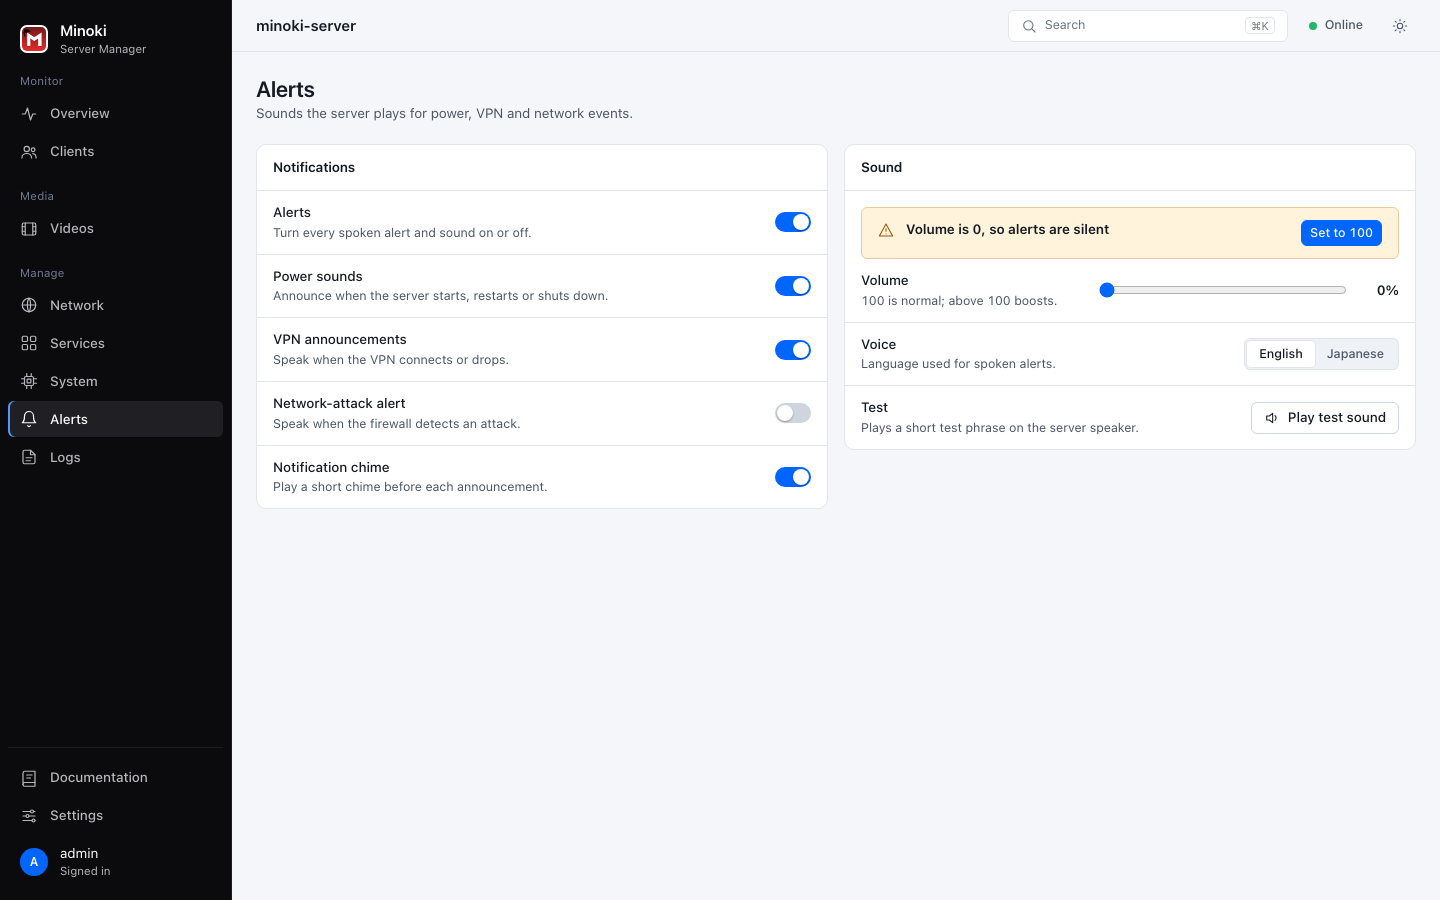
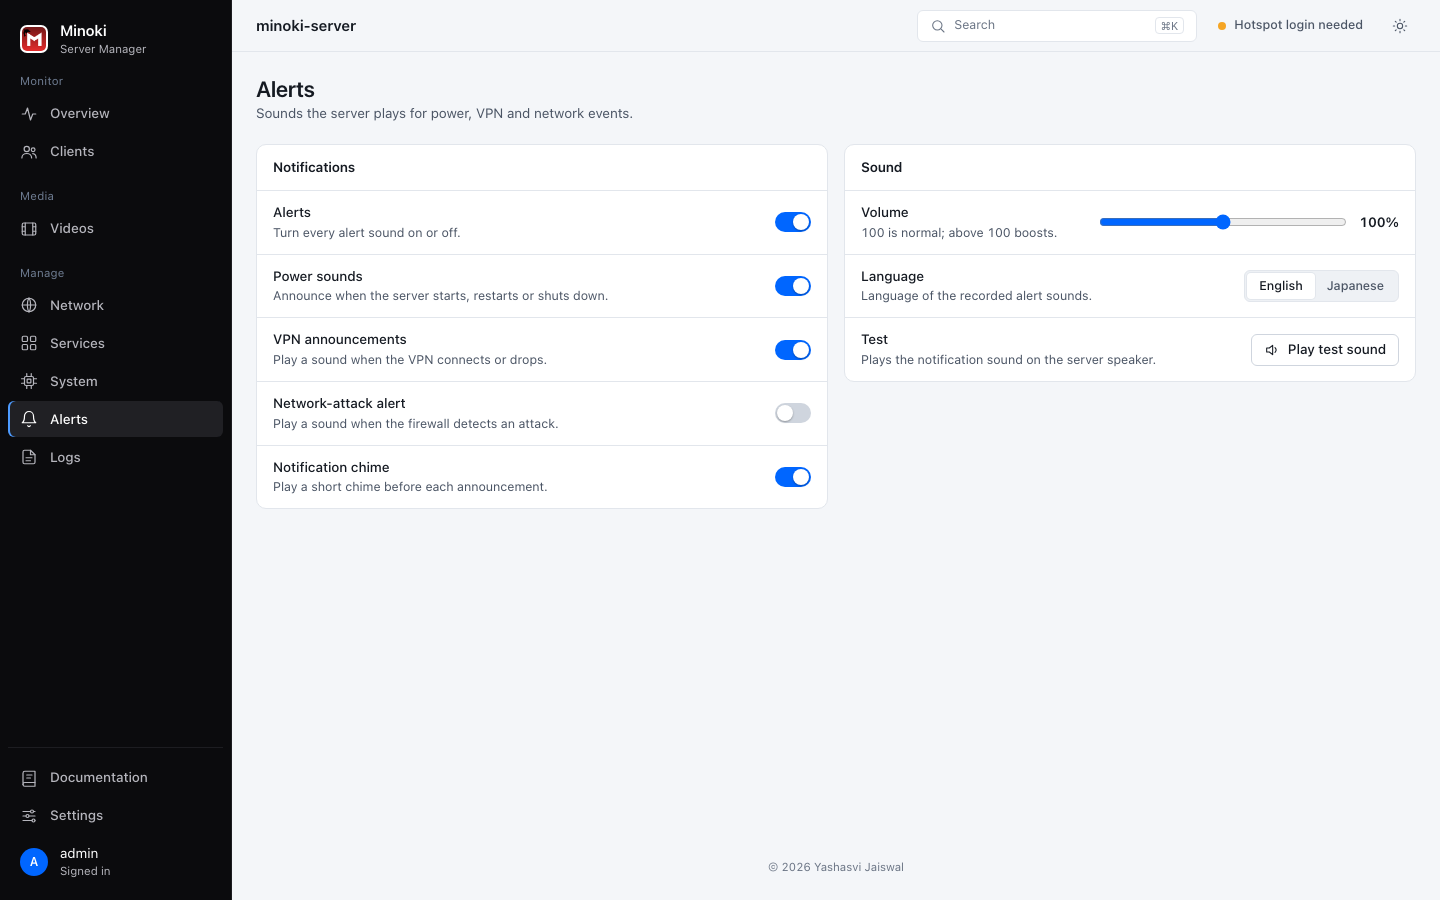
Add hotspot band switch, adapter switches, audio track selection and recorded alert sounds; refresh numbers and screenshots

diff --git a/README.md b/README.md
@@ -22,19 +22,20 @@ It shares an internet connection with devices on its own hotspot and manages acc
 - It builds the firewall rules and loads them in one step. You can block a device, limit its speed, or switch all sharing off with one master switch.
 - Guests see a sign-in page. Phones are redirected so their own login sheet opens. The admin can keep several four-digit codes at once and see how often each one is used.
 - WireGuard VPN with a watchdog, and switching between a Wi-Fi uplink and a wired one. It also notices when the uplink is behind a login page of its own, which a simple ping would call "online".
-- Live monitoring: traffic per interface, busiest processes, system meters, service health and an activity feed. Alerts can be spoken aloud.
+- Live monitoring: traffic per interface, busiest processes, system meters, service health and an activity feed. Alerts play recorded sounds, in English or Japanese.
+- The hotspot can run on the 2.4 or 5 GHz band, and each network adapter can be switched on or off from the console.
 - A provisioner that installs about fifteen supporting services, adopts ones that already exist instead of overwriting them, and can take over from the old setup with a rollback.
-- A video library with posters, series, resume, subtitles, and one-time repackaging of MKV files so browsers can play them.
+- A video library with posters, series, resume, subtitles, a choice of audio tracks, and one-time repackaging of MKV files so browsers can play them.
 - Two consoles behind one login: the full admin console, and a restricted one for users.
 - Installable phone apps. The console and the video library are separate progressive web apps (PWA).
 
 ## Tech Stack & Development Processes
 
-- Backend and API design in Go: one daemon, a role-checked HTTP API with 81 documented routes, SQLite storage, and migrations that run on their own at startup.
+- Backend and API design in Go: one daemon, a role-checked HTTP API with 86 documented routes, SQLite storage, and migrations that run on their own at startup.
 - Linux and networking: iptables, ipset and tc, a captive portal, WireGuard, hostapd, dnsmasq and systemd.
 - Security: hashed passwords and tokens, attempt limits, deny-by-default roles, and password re-confirmation for sensitive changes.
 - Front end: a plain JavaScript console with light and dark themes, separate desktop and phone layouts, and installable apps.
-- Testing: 266 passing tests, including golden-file tests for the generated firewall rules.
+- Testing: 273 passing tests, including golden-file tests for the generated firewall rules.
 - Operations: dry runs, backups, a staged cutover with automatic rollback, service supervision and health reports.
 
 ## Safety Measures
@@ -52,13 +53,13 @@ The daemon owns its own firewall chains and loads them in a single `iptables-res
 | | |
 |---|---|
 | ![Clients](assets/screenshots/clients.png) | ![Network](assets/screenshots/network.png) |
-| Clients, with block and speed limit | Network: uplink, sharing, speed test |
+| Clients, with block and speed limit | Network: uplink, sharing, adapters |
 | ![Hotspot access codes](assets/screenshots/hotspot-access-codes.png) | ![Settings and user management](assets/screenshots/settings-user-management.png) |
-| Guest access codes | User management |
+| Hotspot band and channel, guest access codes | User management |
 | ![Services](assets/screenshots/services.png) | ![System](assets/screenshots/system.png) |
 | Services and their health | System meters and power |
 | ![Alerts](assets/screenshots/alerts.png) | ![Logs](assets/screenshots/logs.png) |
-| Alerts and sound | Blocked connections |
+| Alerts, in English or Japanese | Blocked connections |
 
 The video library:
 
@@ -68,6 +69,8 @@ The video library:
 | Home, with continue watching | A series and its episodes |
 | ![Player](assets/screenshots/videos-player.png) | ![Episode management](assets/screenshots/videos-manage.png) |
 | Player, with subtitle timing | Edit, hide and regroup |
+| ![Audio tracks](assets/screenshots/videos-audio.png) | |
+| Choosing between audio tracks | |
 
 Dark theme, phone layouts and the guest portal:
 
@@ -135,6 +138,10 @@ Auto-launch captive portal on phones. The server sends an unauthorised guest's p
 
 On a Core 2 Duo, transcoding video isn't realistic. So the library repackages MKV to MP4 once, in the background, at the lowest priority, and keeps the result. The binaries are static with no libc dependency, so the old distribution's libraries don't get in the way.
 
+The hotspot band can be changed from the console. The change rewrites only the band and channel in the hotspot's configuration and restarts it. If the radio doesn't come up on the new band, the previous settings are restored automatically.
+
+An MKV with several audio tracks (for example Japanese and English) keeps the first one in the repackaged video. The others are extracted on demand into small audio files, and the player plays the chosen one beside the muted video, kept in step with it. Browsers can't switch audio tracks inside an MP4 reliably, and a second full copy of the video per language would take gigabytes.
+
 Age-gated categories are refused by every route that could expose them (titles, artwork, subtitles, files and direct links) until a session confirms its age. The protection lives on the server, not in the interface.
 
 ### Bugs faced during development
@@ -142,16 +149,17 @@ Age-gated categories are refused by every route that could expose them (titles, 
 - A progress bar stuck at 0%. The server's older ffmpeg reports elapsed time under a different key than newer versions.
 - A console that wouldn't start after an update, because the browser paired a new script with a cached old one. The server now asks browsers to revalidate on every load.
 - An nginx directive that isn't allowed inside `if`. I caught it by testing the configuration before reloading it.
+- 5 GHz was refused by the hotspot adapter on every channel. The cause was a signature check: the updated wireless regulatory database was signed with a newer key than the old `crda` tool trusts, so the country settings never applied. A driver option fixed it.
 - A progress bar stuck at 99%. It turned out to be a final pass of several minutes over a 1.5 GB file, so the player now says "Finishing up".
 
 ## The numbers
 
 | | |
 |---|---|
-| Go source | about 17,400 lines, 2 programs, 16 internal packages |
-| Go tests | about 7,700 lines, 266 passing |
-| Console JavaScript | about 4,100 lines, no framework |
-| HTTP API | 81 documented endpoints, all authenticated and role-checked |
+| Go source | about 18,100 lines, 2 programs, 16 internal packages |
+| Go tests | about 8,100 lines, 273 passing |
+| Console JavaScript | about 4,200 lines, no framework |
+| HTTP API | 86 documented endpoints, all authenticated and role-checked |
 | Runs on | 32-bit Ubuntu 18.04 in production |
 | Dependencies | Go standard library, a pure-Go SQLite driver, bcrypt |
 

diff --git a/docs/FEATURES.md b/docs/FEATURES.md
@@ -10,6 +10,8 @@ Internet sharing is a single master switch. When it's off, the hotspot can't rea
 
 You can choose the uplink between the Wi-Fi and wired ports, scan for networks and connect. If the uplink Wi-Fi has a login page of its own, the console says so. A plain ping would report "online" in that case, which isn't quite true.
 
+The hotspot can run on the 2.4 GHz or the 5 GHz band. 5 GHz is faster and avoids the crowded 2.4 GHz band, with a shorter range. The console restarts the hotspot on the new band and puts the previous settings back if the radio won't start on it. Each network adapter also has an on/off switch, and a switched-off adapter stays off after a restart.
+
 For each device you can rename it, block it or limit its speed, and the limits survive a reboot.
 
 Until a device signs in, it can reach DHCP, DNS and the web server, and nothing else. An optional uplink shield also drops unsolicited inbound traffic. It always leaves the management ports open, so it can't lock the administrator out.
@@ -32,7 +34,7 @@ The Overview page shows the path to the internet (uplink, gateway, hotspot, clie
 
 The System page has per-resource detail, disks, interfaces and power actions that need a typed confirmation. Services lists the self-hosted apps with live status. Logs shows blocked connections, with a switch to hide routine chatter from other devices on the network.
 
-Alerts can be spoken or played as sounds for power, VPN and intrusion events. Language and volume are adjustable, and the volume can go past the hardware maximum.
+Alerts play recorded sounds for power, VPN and intrusion events, in English or Japanese. Language and volume are adjustable, and the volume can go past the hardware maximum.
 
 ![Overview](../assets/screenshots/overview-light.png)
 
@@ -44,7 +46,7 @@ Folders become categories. A folder of episodes becomes a series, and loose file
 
 How a file plays depends on the file. If the browser can play it, it plays directly. Otherwise it's repackaged to MP4 once in the background, with a progress bar that also covers the slower final pass. If that isn't possible either, a link opens it in an external player.
 
-Subtitles come from embedded streams, files next to the video, or an online search. A timing control helps when they're slightly out of sync. Watch progress is kept per user.
+Subtitles come from embedded streams, files next to the video, or an online search. A timing control helps when they're slightly out of sync. When a file has several audio tracks, an Audio menu lets you choose between them. The chosen track is prepared in the background while the video keeps playing, and then switches in. Watch progress is kept per user.
 
 Restricted (A-rated) categories stay hidden until a session confirms its age, and the server enforces this.
 

diff --git a/docs/API-OVERVIEW.md b/docs/API-OVERVIEW.md
@@ -16,12 +16,12 @@ Responses aren't cached. Sensitive changes take an extra `admin_password` field.
 |---|---|---|
 | Authentication and account | 4 | Sign in and out, who am I, change my own password |
 | Status and monitoring | 10 | System meters, throughput per interface, top applications, disks, fans, service health, activity feed, connectivity and public address, speed test |
-| Network control | 20 | Internet sharing, captive portal and session length, guest access codes (list, create, delete), user management (list, create, reset, delete), VPN, uplink and Wi-Fi, interfaces, settings, hotspot restart |
+| Network control | 23 | Internet sharing, captive portal and session length, guest access codes (list, create, delete), user management (list, create, reset, delete), VPN, uplink and Wi-Fi, interfaces and switching adapters on or off, hotspot band and channel, settings, hotspot restart |
 | Clients and devices | 7 | Devices on the network, names, blocking, speed limits, manual authorisation |
 | Logs, alerts and power | 7 | Blocked-connection log, sound and voice settings, a free-text note, reboot and shutdown |
-| Videos | 29 | Library, titles, streaming, posters, subtitles, progress, episode management, settings, artwork refresh |
+| Videos | 31 | Library, titles, streaming, posters, subtitles, progress, episode management, extra audio tracks, settings, artwork refresh |
 | Guest portal | 4 | Code verification, "am I authorised", a device's own address, and a tunnel-aware admin authorisation |
-| Total | 81 | |
+| Total | 86 | |
 
 ## Examples
 

diff --git a/docs/ARCHITECTURE.md b/docs/ARCHITECTURE.md
@@ -17,7 +17,7 @@ flowchart TB
   subgraph Daemon["minokid"]
     direction TB
     AUTH["Sessions, roles, password re-confirmation"]
-    API["HTTP API (81 documented routes)"]
+    API["HTTP API (86 documented routes)"]
     FW["Firewall engine"]
     PORTAL["Captive portal"]
     MEDIA["Media library"]
